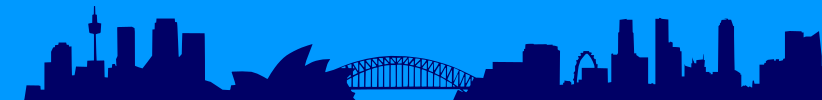
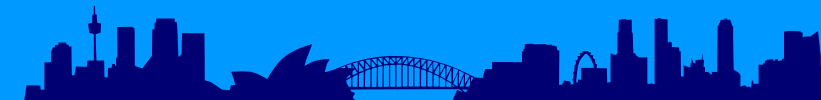
got blue hue right, finally

Changed region(s): [[0.4263, 0.57, 0.5786, 0.87], [0.7004, 0.72, 0.7308, 0.75]]

diff --git a/static/style.css b/static/style.css
@@ -24,15 +24,15 @@ hgroup, main, menu, nav, section { display:block }
 
 /* Palette ****************************************************/
 html {
-  background:#000066;
+  background:#000073;
   color:#ccccee;
 }
 #skyline {
   background:#0099ff url("sydney-singapore.png") top center no-repeat;
   height:100px;
 }
-h1 a, h2 a, h3 a, table th, nav a { color:#ffffff }
-#sidebar nav a,a, time { color:#0099ff }
+h1 a, h2 a, h3 a, table th, nav a, .archive dl a { color:#ffffff }
+#sidebar nav a,a, time, #archive-show dl dd { color:#0099ff }
 blockquote { 
   border-left:4px solid #333399;
   color:#aaaadd;
@@ -69,8 +69,8 @@ body {
   font-family:"Helvetica Neue","Source Sans Pro",Arial,"Liberation Sans",sans-serif;
   text-align:center;  /* ie6: centering */
 }
-h1 { font-size:24px }
-h2, h3 { 
+h1,h2 { font-size:24px }
+h3 { 
   font-size:22px;
   margin-top:30px;
 }
@@ -78,8 +78,8 @@ small {
   font-size:14px;
   white-space:nowrap;
 }
-a, h1 a:hover { text-decoration:underline }
-h1 a, a:hover { text-decoration:none }
+a, h1 a:hover, h2 a:hover { text-decoration:underline }
+h1 a, h2 a, a:hover { text-decoration:none }
 img { display:inline; /* mozilla: fix default behaviour */ }
 ul { list-style-type:circle; }
 
@@ -158,7 +158,6 @@ main { margin-left:220px; }
 
 /* Articles ***************************************************/
 article { margin-bottom:120px }
-article small time { font-weight:600; }
 article h1 { display:inline }
 article h1 a { text-decoration:none; margin-right:8px }
 article div,.secondary ul,.secondary p, #archive dl { line-height:24px }
